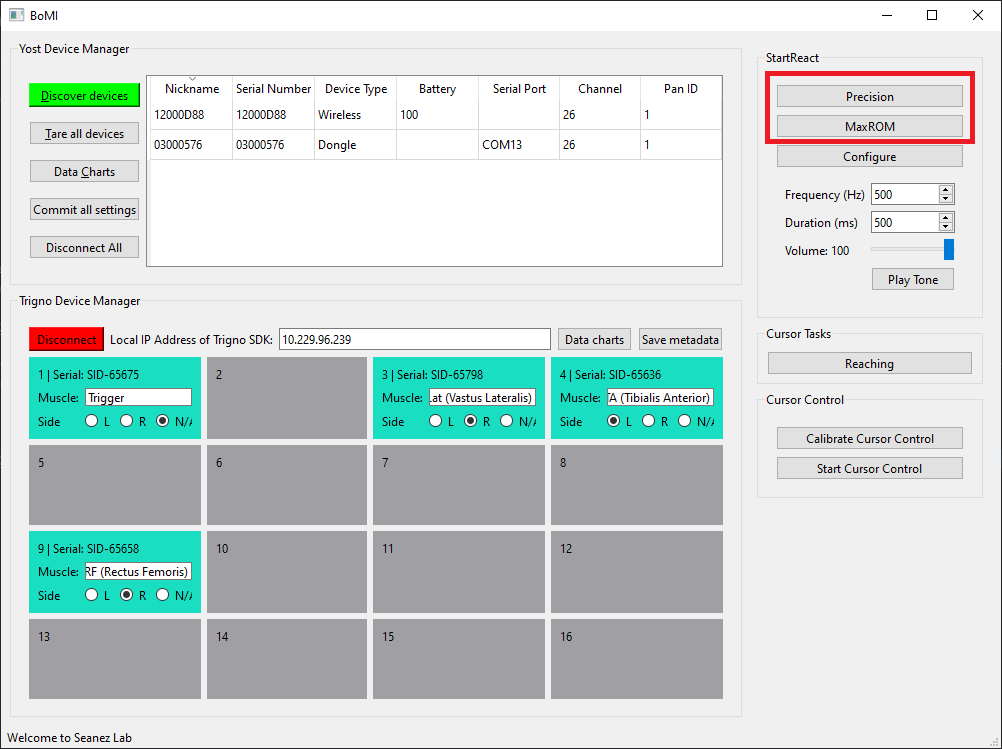
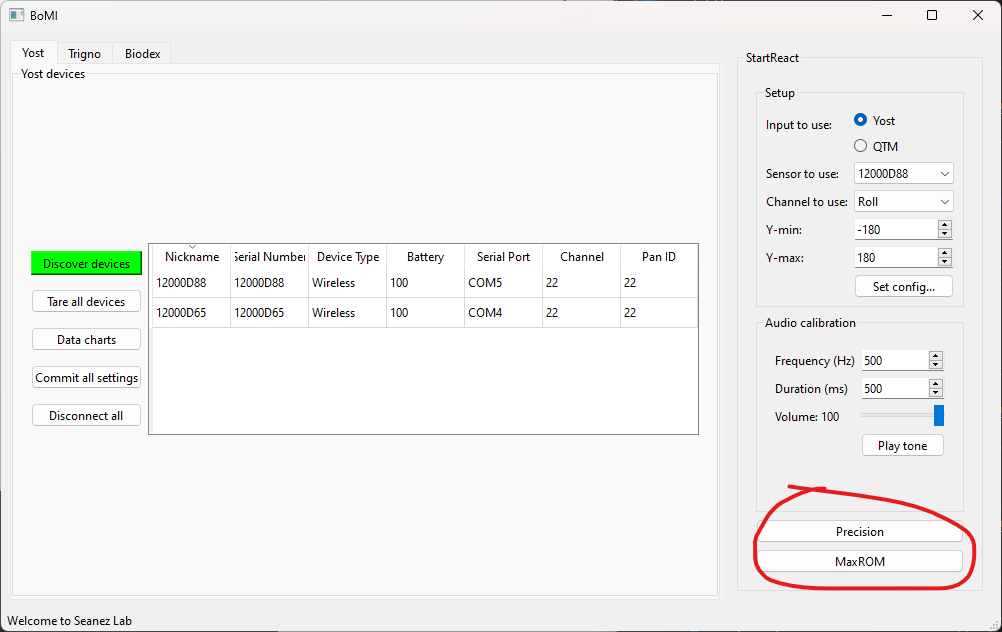
Update docs to reflect new StartReact widget

diff --git a/docs/start-react.md b/docs/start-react.md
@@ -79,17 +79,25 @@ Click on **"Data charts"** to open a new window to inspect the real-time data an
 
 After the Yost 3-Space Sensors and Trigno EMG Sensors are setup, we can configure StartReact.
 
-### a. Adjust volume
+### Main experiment setup
+!["Setup" panel](img/bomi-sr-setup.png)
 
-First, make sure speakers to produce the auditory and startling sound effects are plugged into the computer. Test the tone by clicking on **"Play tone"**. Make sure you can achieve a ~115 dB sound with the volume at 100, and ~80 dB with the volume at 1.
+In this panel, first select the kind of input to use with the experiment.
 
-![](./img/bomi-sr-playtone.png)
+Then, select the sensor to use from the drop-down of available sensors.
+The experiment will only show and save data from one sensor.
 
-### b. Set StartReact configuration
+Then, select the channel to use from the drop-down of available channels.
+The experiment will use that channel's data to determine when the participant enters the target range.
+However, data from all available channels will be saved.
 
-Click on **"Configure"** to bring up a configuration dialog.
+After the channel has been selected, the Y-min and Y-max fields
+will be filled with the default values for the channel.
+Adjust the fields if necessary.
 
-![](./img/bomi-sr-config-btn.png)
+#### Additional configuration
+
+Additional configuration can be set inside **"Set config..."**.
 
 ![](./img/bomi-sr-config.png)
 
@@ -97,7 +105,12 @@ Click on **"Configure"** to bring up a configuration dialog.
 - **Pause Min**: Minimum pause between trials.
 - **Pause Random**: Max random pause to add on top of **Pause Min**.
 - **No. Trials per cue**: Number of trials for each cue. Since there are three cues (visual, auditory, startling), there will be 3x this number of trials in total.
-- **Angle Type**: Which angle will be used for the _StartReact_ task metrics. _**Pitch**_ has been a good one to use.
+
+### Audio calibration
+
+![](./img/bomi-sr-audio.png)
+
+Make sure speakers to produce the auditory and startling sound effects are plugged into the computer. Test the tone by clicking on **"Play tone"**. Make sure you can achieve a ~115 dB sound with the volume at 100, and ~80 dB with the volume at 1.
 
 ## 5. Run an experiment
 
@@ -123,6 +136,6 @@ Click **"Ok"** to save the metadata to file.
 
 ### b. Begin Task
 
-Click **"Begin task"** to start the experiment! All raw data will be stored to disk (Yost 3-Space Sensor, Trigno EMG, task events, metadata, and configurations etc.)
+Click **"Begin task"** to start the experiment! All raw data will be stored to disk (main input, Trigno EMG, task events, metadata, and configurations etc.)
 
 ![](./img/bomi-sr-precision-begintask.png)
